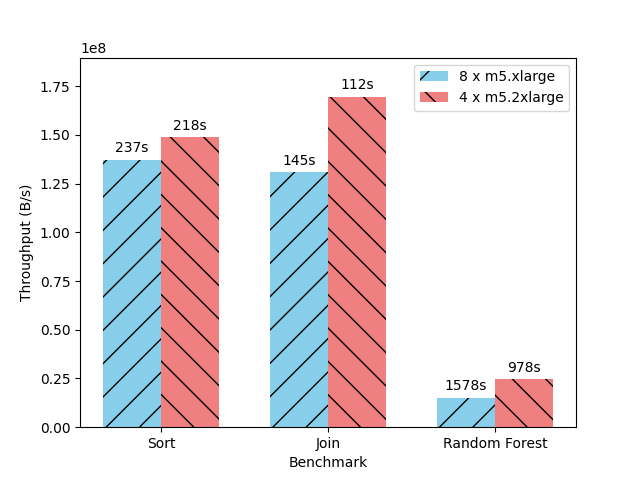
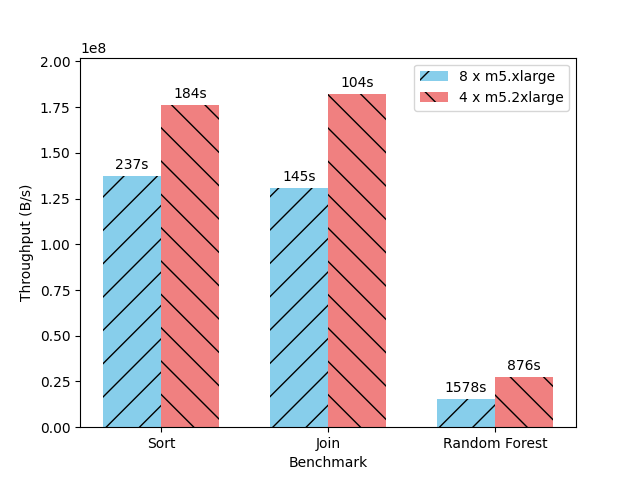
feat: experiment 3 plotter

diff --git a/plot/plot_experiment_3.py b/plot/plot_experiment_3.py
@@ -1,0 +1,66 @@
+import matplotlib.pyplot as plt
+import numpy as np
+
+def autolabel(rects, data):
+    for rect, val in zip(rects, data):
+        height = rect.get_height()
+        ax.annotate('{}'.format(val),
+                    xy=(rect.get_x() + rect.get_width() / 2, height),
+                    xytext=(0, 3),
+                    textcoords="offset points",
+                    ha='center', va='bottom')
+
+BENCHMARK = 'Join'  # Sort, Join, RF
+
+sort_throughputs = [137340726, 145664318, 144619121]
+join_throughputs = [130904746, 130050001, 132004908]
+rf_throughputs   = [15200433, 15248537, 14767638]
+
+sort_duration = ["237s", "223s", "225s"]
+join_duration = ["145s", "146s", "144s"]
+rf_duration   = ["1578s", "1573s", "1625s"]
+
+colors = ['skyblue', 'lightcoral', 'lightgreen']
+
+fig, ax = plt.subplots()
+
+bar_width = 0.20
+
+if BENCHMARK == 'Sort':
+    rects1 = ax.bar(1 - bar_width * 1.05, [sort_throughputs[0]], bar_width, label='8 Workers', color=colors[0], hatch='/')
+    rects2 = ax.bar(1, [sort_throughputs[1]], bar_width, label='10 Workers', color=colors[1], hatch='\\')
+    rects3 = ax.bar(1 + bar_width * 1.05, [sort_throughputs[2]], bar_width, label='12 Workers', color=colors[2], hatch='x')
+    autolabel(rects1, [sort_duration[0]])
+    autolabel(rects2, [sort_duration[1]])
+    autolabel(rects3, [sort_duration[2]])
+
+elif BENCHMARK == 'Join':
+    rects4 = ax.bar(1 - bar_width * 1.05, [join_throughputs[0]], bar_width, label='8 Workers', color=colors[0], hatch='/')
+    rects5 = ax.bar(1, [join_throughputs[1]], bar_width, label='10 Workers', color=colors[1], hatch='\\')
+    rects6 = ax.bar(1 + bar_width * 1.05, [join_throughputs[2]], bar_width, label='12 Workers', color=colors[2], hatch='x')
+    autolabel(rects4, [join_duration[0]])
+    autolabel(rects5, [join_duration[1]])
+    autolabel(rects6, [join_duration[2]])
+
+elif BENCHMARK == 'RF':
+    rects7 = ax.bar(1 - bar_width * 1.05, [rf_throughputs[0]], bar_width, label='8 Workers', color=colors[0], hatch='/')
+    rects8 = ax.bar(1, [rf_throughputs[1]], bar_width, label='10 Workers', color=colors[1], hatch='\\')
+    rects9 = ax.bar(1 + bar_width * 1.05, [rf_throughputs[2]], bar_width, label='12 Workers', color=colors[2], hatch='x')
+    autolabel(rects7, [rf_duration[0]])
+    autolabel(rects8, [rf_duration[1]])
+    autolabel(rects9, [rf_duration[2]])
+
+ax.set_xlabel(BENCHMARK + ' Benchmark')
+ax.set_ylabel('Throughput (B/s)')
+
+if BENCHMARK == 'Sort':
+    ax.set_ylim(0, max(sort_throughputs) + 10000000)
+elif BENCHMARK == 'Join':
+    ax.set_ylim(0, max(join_throughputs) + 40000000)
+elif BENCHMARK == 'RF':
+    ax.set_ylim(0, max(rf_throughputs)   + 5000000)
+ax.set_xticks([])
+ax.legend()
+plt.tight_layout()
+plt.savefig('figures/' + 'experiment_3_' + BENCHMARK + '_results.png')
+plt.show()

diff --git a/plot/plot_experiment_1.py b/plot/plot_experiment_1.py
@@ -3,10 +3,14 @@ import matplotlib.pyplot as plt
 pairs = [(1, 8), (2, 4), (4, 2), (8, 1)]
 x = range(len(pairs))
 
-benchmark_name = 'RF' #Sort, Join, RF
+benchmark_name = 'Join' #Sort, Join, RF
 sort_throughputs = [0, 66478945, 108372833, 137340726]
 join_throughputs = [0, 51698833, 91748746, 130904746]
 rf_throughputs   = [0, 4484625, 9659282, 15200433]
+
+sort_duration = ["0s", "490s", "300s", "237s"]
+join_duration = ["0s", "367s", "207s", "145s"]
+rf_duration   = ["0s", "5351s", "2484s", "1578s"]
 
 colors  = ['skyblue', 'lightgreen', 'lightcoral', 'lightsalmon']
 hatches = ['/', '\\', 'x', '-']
@@ -18,9 +22,25 @@ elif benchmark_name == 'Join':
 elif benchmark_name == 'RF':
     bars = plt.bar(x, rf_throughputs, color=colors, hatch=hatches)
 
+
+def autolabel(rects, data):
+    for rect, val in zip(rects, data):
+        height = rect.get_height()
+        plt.annotate('{}'.format(val),
+            xy=(rect.get_x() + rect.get_width() / 2, height),
+            xytext=(0, 3),  # 3 points vertical offset
+            textcoords="offset points",
+            ha='center', va='bottom')
+
+if benchmark_name == 'Sort':
+    autolabel(bars, [sort_duration[0], sort_duration[1], sort_duration[2], sort_duration[3]])
+elif benchmark_name == 'Join':
+    autolabel(bars, [join_duration[0], join_duration[1], join_duration[2], join_duration[3]])
+elif benchmark_name == 'RF':
+    autolabel(bars, [rf_duration[0], rf_duration[1], rf_duration[2], rf_duration[3]])
+
 plt.xlabel('(Executors, Cores)')
 plt.ylabel('Throughput (B/s)')
-plt.title(benchmark_name + ' Benchmark: Gigantic Workload')
 plt.xticks(x, [str(pair) for pair in pairs])
 
 if benchmark_name == 'Sort':
@@ -28,10 +48,10 @@ if benchmark_name == 'Sort':
 elif benchmark_name == 'Join':
     plt.ylim(0, max(join_throughputs) + 10000000)
 elif benchmark_name == 'RF':
-    plt.ylim(0, max(rf_throughputs) + 10000000)
+    plt.ylim(0, max(rf_throughputs) + 1000000)
 
-legend_labels = ['1 Executors, 8 Cores', '2 Executors, 4 Cores', '4 Executors, 2 Cores', '8 Executors, 1 Cores']
+legend_labels = ['1 Executors, 8 Cores, 2GB', '2 Executors, 4 Cores, 4GB', '4 Executors, 2 Cores, 4GB', '8 Executors, 1 Cores, 2GB']
 plt.legend(bars, legend_labels)
 plt.tight_layout()
-plt.savefig('figures/' + benchmark_name + '_benchmark.png')
+plt.savefig('figures/experiment_1_' + benchmark_name + '_results.png')
 plt.show()

diff --git a/plot/plot_experiment_4.py b/plot/plot_experiment_4.py
@@ -1,13 +1,13 @@
 import matplotlib.pyplot as plt
 import numpy as np
 
-sort_throughputs = [137340726, 149046757]
-join_throughputs = [130904746, 169677194]
-rf_throughputs   = [15200433 , 24516052]
+sort_throughputs = [137340726, 176128006]
+join_throughputs = [130904746, 182072990]
+rf_throughputs   = [15200433 , 27370327]
 
-sort_duration = ["237s", "218s"]
-join_duration   = ["145s", "112s"]
-rf_duration = ["1578s", "978s"]
+sort_duration = ["237s", "184s"]
+join_duration   = ["145s", "104s"]
+rf_duration = ["1578s", "876s"]
 
 fig, ax = plt.subplots()
 
@@ -29,7 +29,7 @@ def autolabel(rects, data):
         height = rect.get_height()
         ax.annotate('{}'.format(val),
                     xy=(rect.get_x() + rect.get_width() / 2, height),
-                    xytext=(0, 3),  # 3 points vertical offset
+                    xytext=(0, 3),
                     textcoords="offset points",
                     ha='center', va='bottom')
 
